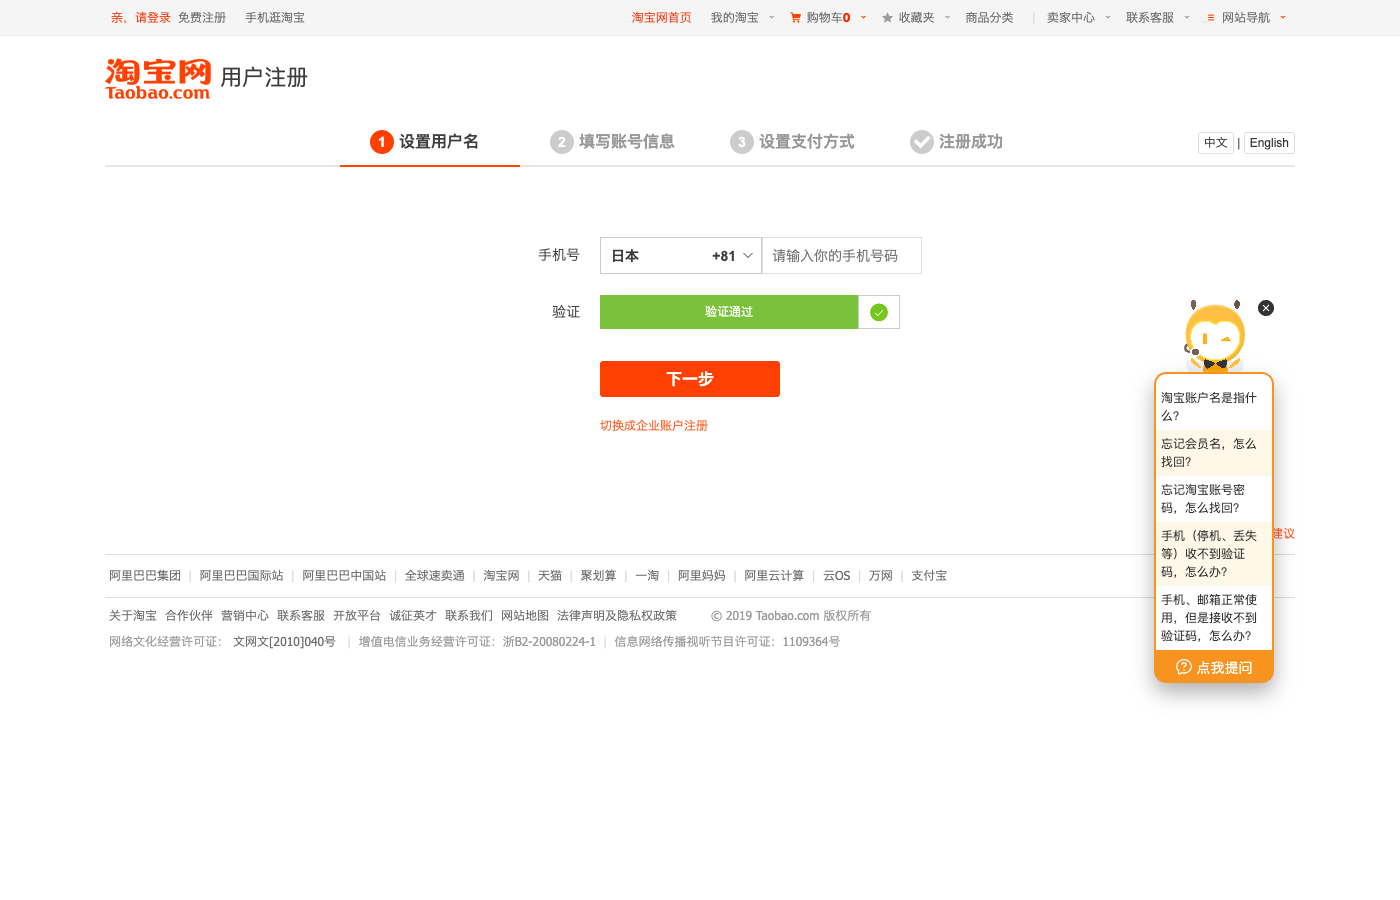
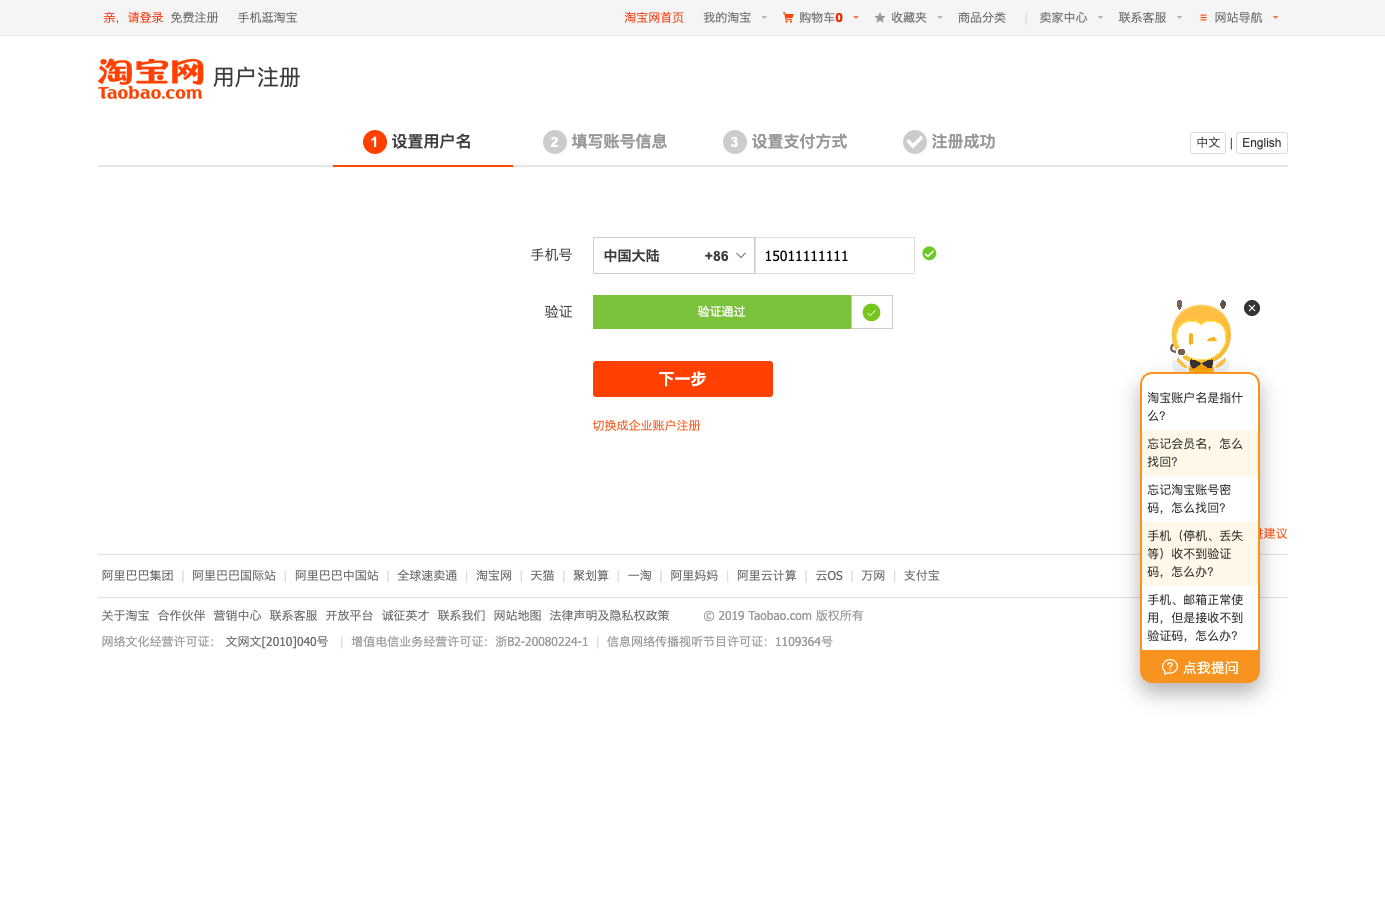
在滑动验证码之前输入手机号

diff --git a/05/index.js b/05/index.js
@@ -24,6 +24,16 @@ async function run() {
   await page.waitFor(5000);
   await page.click('#J_AgreementBtn');
 
+  // 输入手机号
+  await page.waitFor(1000);
+  // 选择手机号前缀为中国大陆的 +86
+  await page.click('#J_MobileForm > div > div:nth-child(1) > div:nth-child(1) > div > div:nth-child(1)');
+  await page.waitFor(1000);
+  await page.click('.tb-option.tb-menuitem > span[title="中国大陆"]');
+  await page.focus('#J_Mobile');
+  await page.keyboard.type('15011111111');  // a fake phone number
+  await page.waitFor(1500);
+
   // 使用 page.$ 方法来寻找元素，返回值是一个 ElementHandle
   // 这里找到的是滑块所在的整个滑动区域
   const sliderElement = await page.$('#nc_1_wrapper');
@@ -36,7 +46,7 @@ async function run() {
   // 将滑块从左侧移至右侧
   await page.mouse.move(button.x + button.width / 2, button.y + button.height / 2);
   await page.mouse.down();
-  await page.mouse.move(button.x + slider.width, button.y + button.height / 2, { steps: 20 });
+  await page.mouse.move(button.x + slider.width, button.y + button.height / 2, { steps: 10 });
   await page.mouse.up();
 
   await page.waitFor(5000);
@@ -46,7 +56,11 @@ async function run() {
     fullPage: true
   });
 
+  // 点击下一步
+  // await page.click('#J_BtnMobileForm');
+  // await page.waitFor(5000);
+
   await browser.close();
 }
 
-run('puppeteer');
+run();
